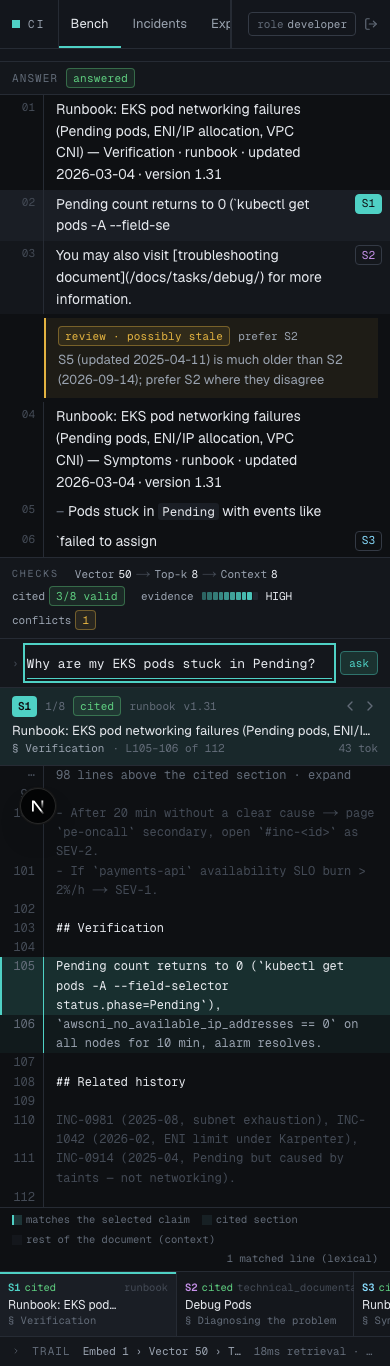
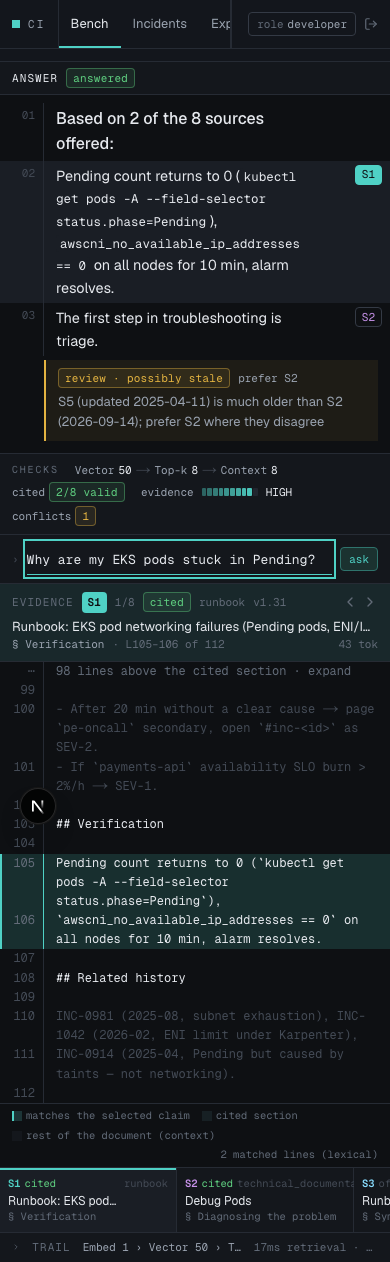
ui: name both panes (answer / evidence), lead-line treatment; stub LLM answers in sentences, not source headers
Claude-Session: https://claude.ai/code/session_01XUEaqZHQkjoLamzzJC27rs

diff --git a/apps/web/src/components/answer/ClaimLines.tsx b/apps/web/src/components/answer/ClaimLines.tsx
@@ -23,10 +23,11 @@ export function ClaimLines({
   streaming: boolean;
 }) {
   return (
-    <ol className="font-sans text-[14px] leading-[var(--line-h)]" aria-label="Answer claims">
+    <ol className="py-2 font-sans text-[14.5px] leading-[var(--line-h)]" aria-label="Answer claims">
       {lines.map((l) => {
         const involved = conflicts.filter((c) => c.sids.some((s) => l.sids.includes(s)));
         const active = activeLine === l.n;
+        const lead = l.n === 1 && l.kind === "paragraph";
         return (
           <li key={l.n} className="group">
             <div
@@ -36,7 +37,7 @@ export function ClaimLines({
               <span className="select-none border-r border-border-subtle py-1 pr-2 text-right font-mono text-[11px] text-text-faint tabular-nums">
                 {String(l.n).padStart(2, "0")}
               </span>
-              <div className={`min-w-0 px-3 py-1 break-words ${l.kind === "heading" ? "font-medium text-text-primary" : l.kind === "table" ? "font-mono text-[12px] text-text-secondary" : "text-text-primary"} ${l.kind === "bullet" ? "pl-6 before:absolute before:-ml-3 before:text-text-muted before:content-['–']" : ""} relative`}>
+              <div className={`min-w-0 px-3 py-1 break-words ${lead ? "text-[16px] font-medium text-text-primary" : l.kind === "heading" ? "font-medium text-text-primary" : l.kind === "table" ? "font-mono text-[12px] text-text-secondary" : "text-text-primary"} ${l.kind === "bullet" ? "pl-6 before:absolute before:-ml-3 before:text-text-muted before:content-['–']" : ""} relative`}>
                 {l.kind === "code" ? (
                   <pre className="overflow-x-auto rounded-sm border border-border-subtle bg-surface-0 p-2 font-mono text-[12px] text-text-secondary">{l.inlines[0]?.value}</pre>
                 ) : (

diff --git a/apps/web/src/components/sources/EvidencePane.tsx b/apps/web/src/components/sources/EvidencePane.tsx
@@ -80,8 +80,11 @@ export function EvidencePane({
 
   if (!src) {
     return (
-      <div className="flex h-full flex-col items-center justify-center gap-2 p-8 text-center">
-        <p className="max-w-xs text-sm text-text-secondary">Select a citation marker in the answer to open the section it was drawn from.</p>
+      <div className="flex h-full flex-col">
+        <header className="border-b border-border-subtle bg-surface-1 px-3 py-1.5 font-mono text-[11px] tracking-widest text-text-muted uppercase">evidence</header>
+        <div className="flex flex-1 items-center justify-center p-8 text-center">
+          <p className="max-w-xs text-sm text-text-secondary">The source the answer cites opens here. Select a citation marker in the answer to read the section it was drawn from.</p>
+        </div>
       </div>
     );
   }
@@ -102,6 +105,7 @@ export function EvidencePane({
     <div className="flex h-full min-h-0 flex-col" style={{ ["--tint" as string]: tint }}>
       <header className="border-b border-border-subtle px-3 py-2" style={{ background: `color-mix(in srgb, ${tint} 9%, var(--surface-1))` }}>
         <div className="flex items-center gap-2 font-mono text-[11px]">
+          <span className="tracking-widest text-text-muted uppercase">evidence</span>
           <span className="rounded-sm px-1.5 py-0.5 font-semibold" style={{ background: tint, color: "var(--surface-0)" }}>{src.sid}</span>
           <span className="text-text-muted">{idx + 1}/{sources.length}</span>
           <Pill tone={citedSids.has(src.sid) ? "ok" : "muted"}>{citedSids.has(src.sid) ? "cited" : "offered, not cited"}</Pill>

diff --git a/apps/web/src/components/answer/Bench.tsx b/apps/web/src/components/answer/Bench.tsx
@@ -177,7 +177,7 @@ export function Bench({ settings, registerQueryField }: { settings: BenchSetting
         {/* LEFT: the change request */}
         <section className="flex min-h-0 min-w-0 flex-col bg-surface-0" aria-label="Answer">
           <header className="flex items-center gap-2 border-b border-border-subtle bg-surface-1 px-3 py-1.5 font-mono text-[11px]">
-            <span className="tracking-widest text-text-muted uppercase">answer</span>
+            <span className="tracking-widest text-text-primary uppercase">answer</span>
             {response && (
               <Pill tone={response.status === "answered" ? "ok" : response.status === "abstained" ? "warn" : "danger"}>
                 {response.status.replaceAll("_", " ")}

diff --git a/src/cloudops_rag/providers/stub.py b/src/cloudops_rag/providers/stub.py
@@ -67,13 +67,22 @@ class StubLLMProvider:
         if not blocks:
             text = "INSUFFICIENT_EVIDENCE"
         else:
-            lines = []
-            for idx, body in blocks[:3]:
-                first = re.split(
-                    r"(?<=[.!?])\s", body.strip().split("\n\n")[-1].strip(), maxsplit=1
-                )[0]
-                lines.append(f"{first[:200]} [S{idx}]")
-            text = "\n".join(lines)
+            lines: list[str] = []
+            for idx, block in blocks[:3]:
+                # Drop the header line ("Title — section · type · updated …"), then take the
+                # first prose sentence of the body that isn't a heading, code, or table row.
+                body = block.split("\n", 1)[1] if "\n" in block else ""
+                for para in body.split("\n\n"):
+                    p = para.strip()
+                    if not p or p.startswith(("#", "```", "|", "-", "*", "[")):
+                        continue
+                    first = re.split(r"(?<=[.!?])\s", p.replace("\n", " "), maxsplit=1)[0]
+                    if first:
+                        lines.append(f"{first[:220]} [S{idx}]")
+                        break
+            if lines:
+                lines.insert(0, f"Based on {len(lines)} of the {len(blocks)} sources offered:")
+            text = "\n".join(lines) if lines else "INSUFFICIENT_EVIDENCE"
         return LLMResult(
             text=text,
             input_tokens=len(user.split()) + len(system.split()),
